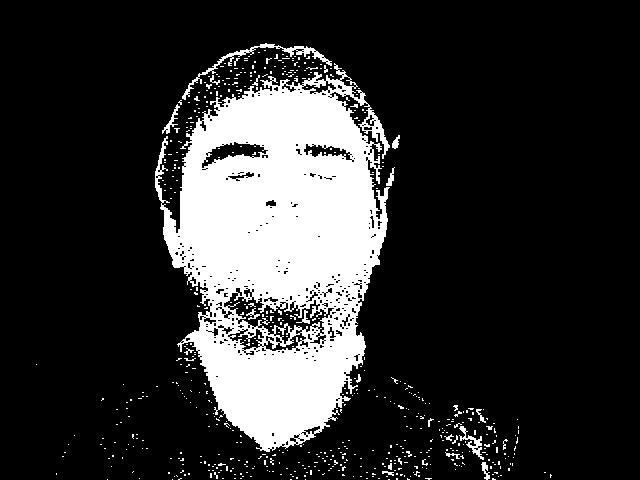
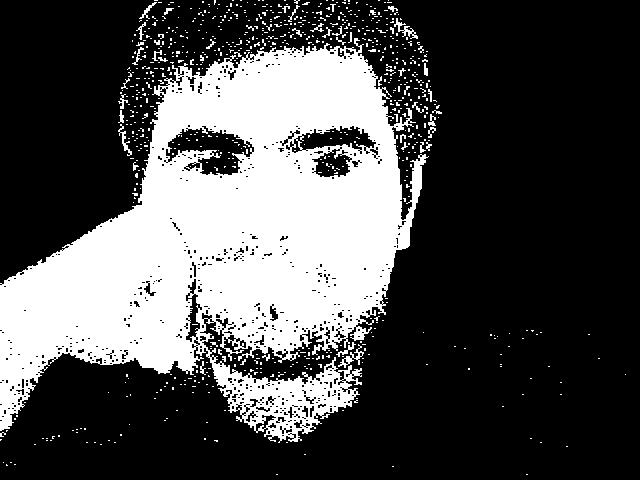
init

diff --git a/src/SegmImage.py b/src/SegmImage.py
@@ -1,18 +1,65 @@
-'''
-Created on 16.07.2010
+from __future__ import division
 
-@author: aval
-'''
+
+from scipy import *
+from scipy.cluster import vq
+from itertools import count
+from ImageDraw import Draw
+import Image
+
+
 
 class SegmImage(object):
-    '''
-    classdocs
-    '''
-
-
-    def __init__(selfparams):
-        '''
-        Constructor
-        '''
-        print "\t==== class SegmImage init ok ===="
+    class Point(object):
+        """
+            Three dimensional vector: <x, y, intensity>
+        """
+        def __init__(self, x, y, intensity=0):
+            self.x = x
+            self.y = y
+            self.intensity = intensity
+            
+#==========================================================
+    def __init__(self, filename,ClaNum):
+        self.filename=filename
+        self.ClaNum=ClaNum
         
+        print "Class init ok"
+#==========================================================
+    def red_points(self,data, X, Y):
+        points = []
+        for (r,g,b), n in zip(data, count()):
+            d = r-g-b
+            if d != 0:
+                points.append(self.Point(n % X, n // X, d))
+        return points
+#==========================================================
+    def EllipseFitting(self):
+    
+        frames = [Image.open(self.filename).convert("RGB")]
+        points_to_track = self.ClaNum
+        k_or_guess = points_to_track
+        X, Y = frames[0].size
+        try:
+            
+            for im, n in zip(frames, count()):
+                points = array([array([p.x, p.y], "f") for p in self.red_points(list(im.getdata()), X, Y)])
+                if len(points) > 0:
+                
+                    codebook, distortion = vq.kmeans(points, k_or_guess)
+                    print codebook, distortion 
+                    draw = Draw(im)
+                    assert points_to_track == len(codebook)
+                    for p in codebook:
+                        p = self.Point(int(p[0]), int(p[1]))
+                        draw.line((p.x-10, p.y-10) + (p.x+10, p.y+10), fill=(255, 0, 0))
+                        draw.line((p.x-10, p.y+10) + (p.x+10, p.y-10), fill=(255, 0, 0))
+                        draw.ellipse((p.x-100, p.y-100, p.x+100, p.y+100),None, "blue")
+                
+                    print n,
+                print
+        finally:
+            
+            frames[0].show()       
+   
+   

diff --git a/src/PreImage.py b/src/PreImage.py
@@ -5,6 +5,7 @@ Created on 14.07.2010
 '''
 
 import Image
+import logging
 from VideoCapture import Device
 
 class PreImage (object):
@@ -28,7 +29,7 @@ class PreImage (object):
         print "\t==== getting image from camera ===="
         print "\t==== getting image success===="
         self.input_image_buf = cam.getImage()
-        self.input_image=self.input_image_buf.resize((320,240))
+        self.input_image=self.input_image_buf.resize((640,480))
         self.width, self.height = self.input_image.size
         size = self.input_image.size
         self.output_YCbCr_color_space = Image.new("RGB", size)
@@ -90,7 +91,7 @@ class PreImage (object):
             convert one pixel from YCbCr to grey skin color model                                   
         '''        
       
-        if ((rgb[1]>90)&(rgb[1]<150))&((rgb[2]>90)&(rgb[2]<150)):
+        if ((rgb[1]>90)&(rgb[1]<155))&((rgb[2]>90)&(rgb[2]<155)):
             grey = 0
         else:
             grey = 255

diff --git a/src/main.py b/src/main.py
@@ -8,10 +8,13 @@ from SegmImage import SegmImage
 
 
 if __name__ == '__main__':
-    filter = PreImage ()
-    filter.convert('s','YCbCr')
-    filter.grey_scale('s','YCbCr')
-   
+    filter = PreImage()
+    filter.convert('','YCbCr')
+    filter.grey_scale('w','YCbCr')
+    # "temp_gr_YCbCr.jpg"
+    filter2 = SegmImage ("temp_gr_YCbCr.jpg",ClaNum=1)
+    filter2.EllipseFitting()
+    
     
 
 
